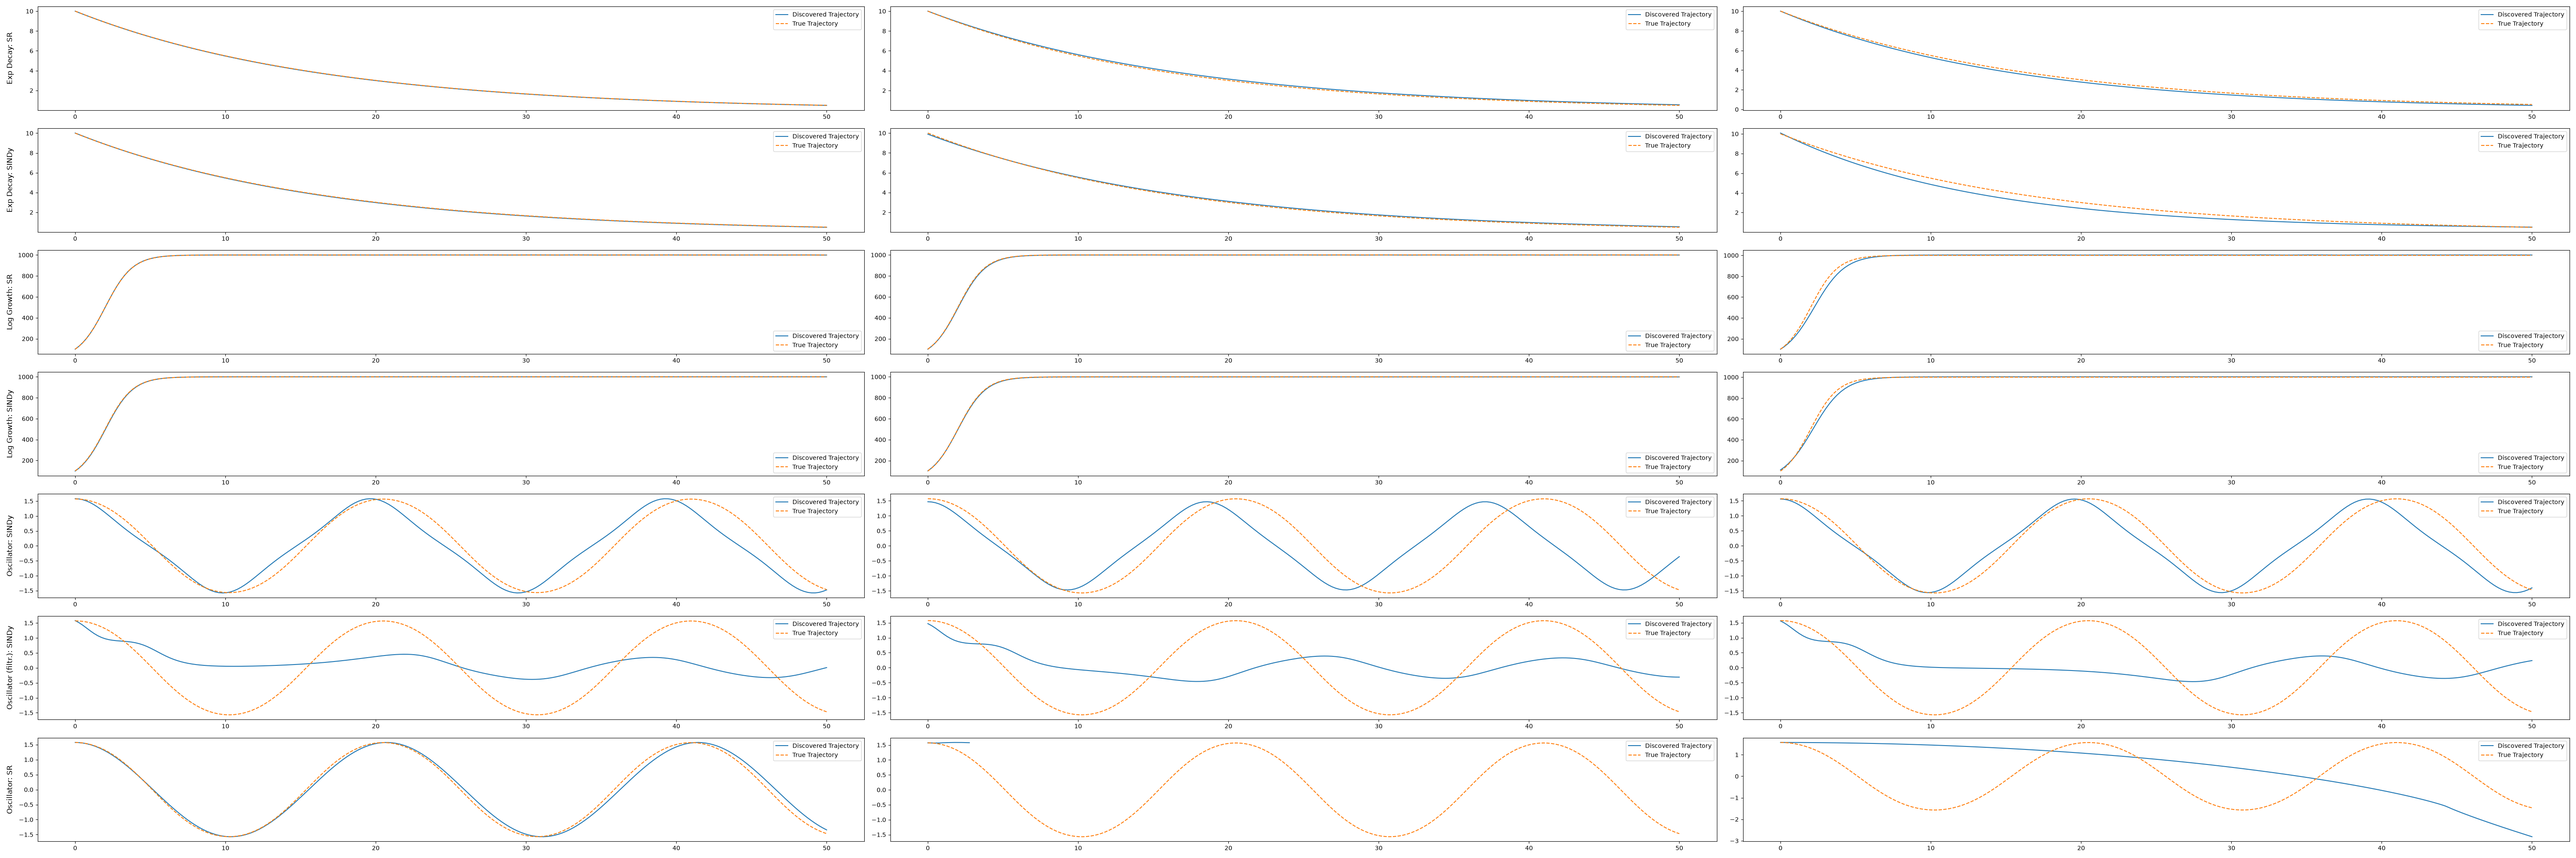
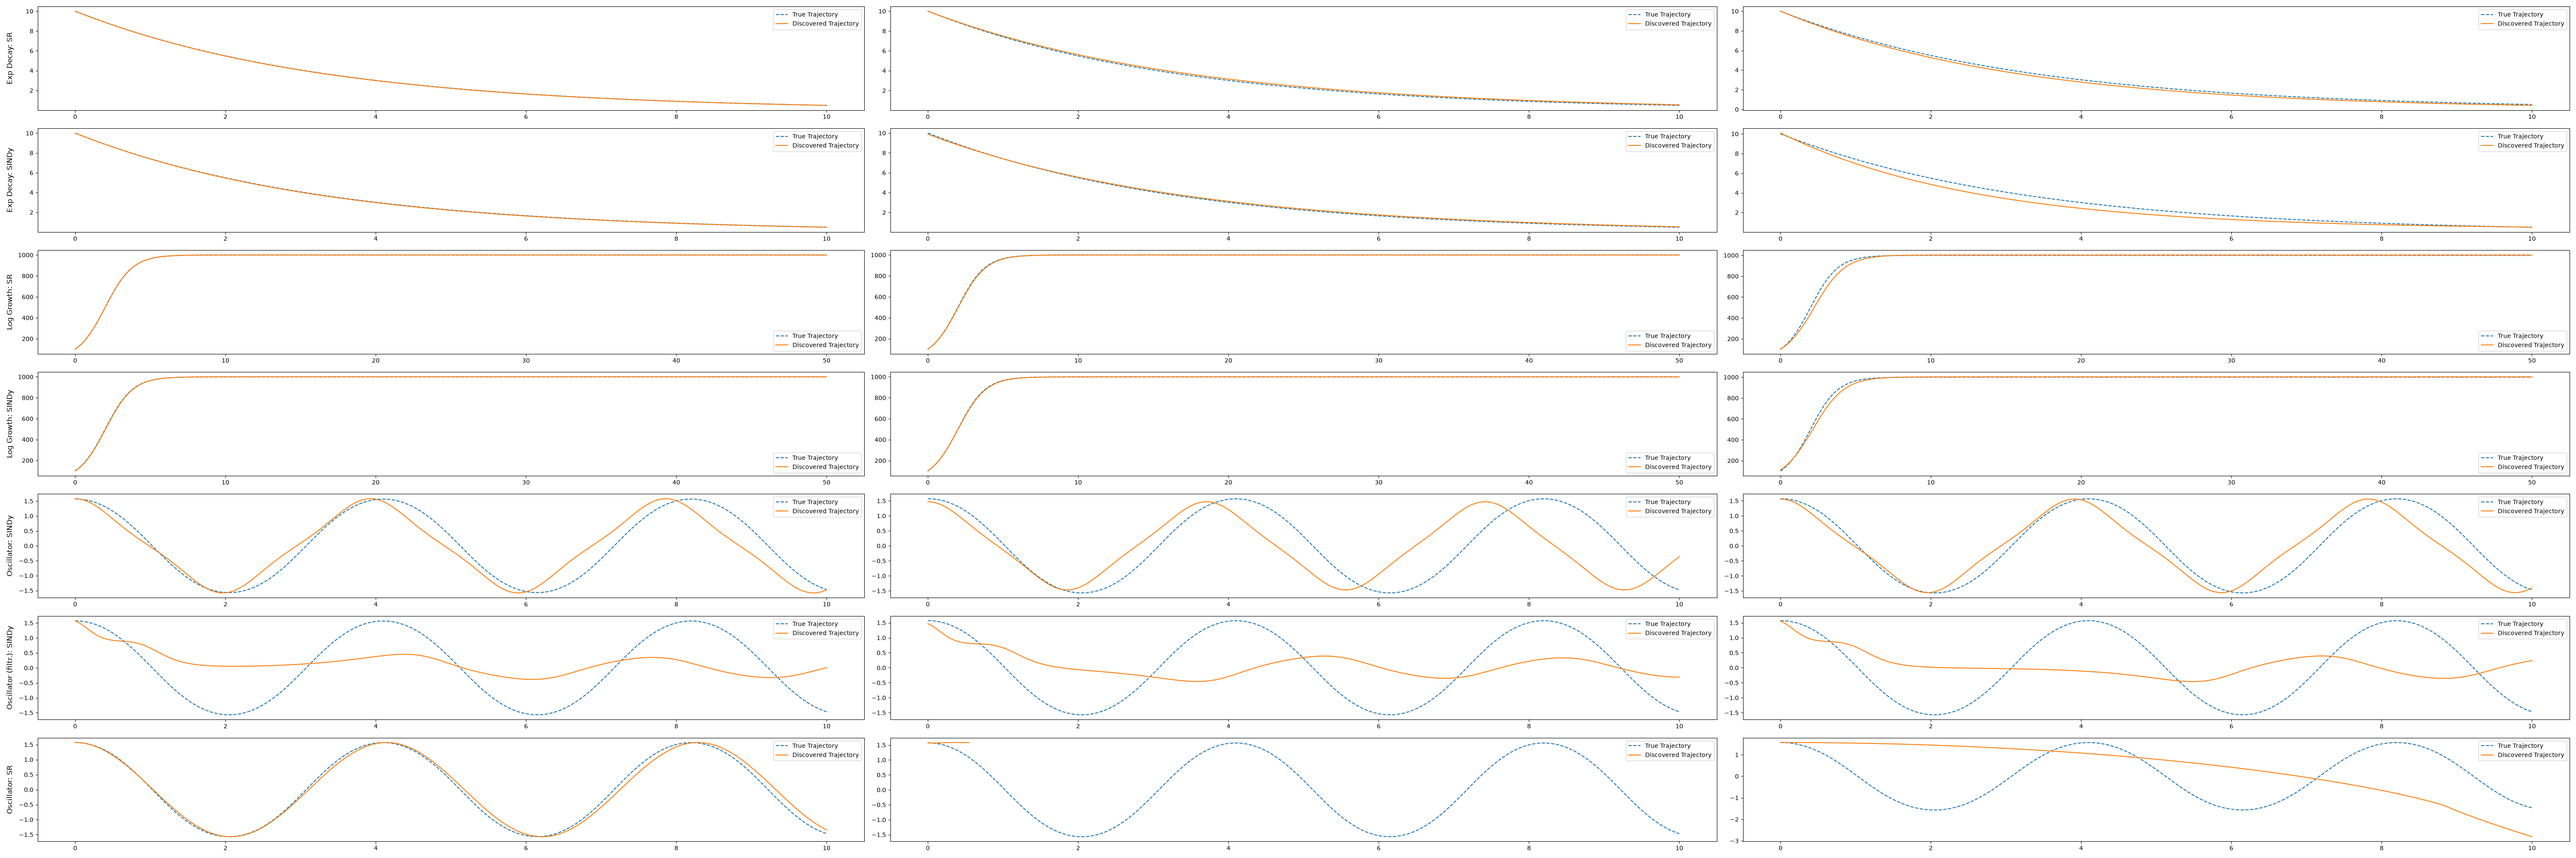
Added Out-of-sample experiment

diff --git a/hrap_report_v3.py b/hrap_report_v3.py
@@ -359,8 +359,7 @@ for i in data: #Review 2: fixed
     else:
         # Penalize the unstable model heavily
         trajectory_loss = np.inf
-        r2 = np.inf
-
+        r2 = np.nan
         # Pad the incomplete trajectory with NaNs
         trajectory = np.pad(trajectory, (0, len(t) - len(trajectory)), constant_values=np.nan)
     trajectories_list.append(trajectory)
@@ -368,7 +367,7 @@ for i in data: #Review 2: fixed
     if len(trajectory_oos_sr) == len(t):
         oos_loss = r2_score(true_trajectory_oos, trajectory_oos_sr)
     else:
-        oos_loss = np.inf  # Model failed to integrate over the full span
+        oos_loss = np.nan  # Model failed to integrate over the full span
     new_row = pd.DataFrame([{
         "Method name": f"Oscillator: PySR, Noise Level {j + 1}",
         "Discovered Diff eq.": model.sympy(),
@@ -401,6 +400,7 @@ plt.tight_layout()
 fig.savefig("results/log_growth_pysr_pysindy.png")
 plt.show() #dotted line – true equation
 
+t = df_pen_l["time"].to_numpy()
 true = -9.8/3*np.sin(df_pen_l["th_true"])
 fig, axes = plt.subplots(1, 3, figsize=(15, 5))
 for i, ax in enumerate(axes.flat):
@@ -437,15 +437,18 @@ for ax, label in zip(axs[:, 0], row_labels):
                 rotation=90)
 axs = axs.flatten()
 for i in range(len(trajectories_list)):
-    axs[i].plot(t, trajectories_list[i], label="Discovered Trajectory")
     if i <= 5:
+        t = df_low["time"].to_numpy()
         axs[i].plot(t, df_low["y_true"].to_numpy(), linestyle="--", label="True Trajectory")
     elif i > 5 and i <= 11:
+        t = df_log_l["time"].to_numpy()
         axs[i].plot(t, df_log_l["pop_true"].to_numpy(), linestyle="--", label="True Trajectory")
     elif i > 11:
+        t = df_pen_l["time"].to_numpy()
         axs[i].plot(t, df_pen_l["th_true"].to_numpy(), linestyle="--", label="True Trajectory")
     else:
         raise ValueError
+    axs[i].plot(t, trajectories_list[i], label="Discovered Trajectory")
     axs[i].legend()
 plt.tight_layout()
 fig.savefig("results/all_trajectories.png")
